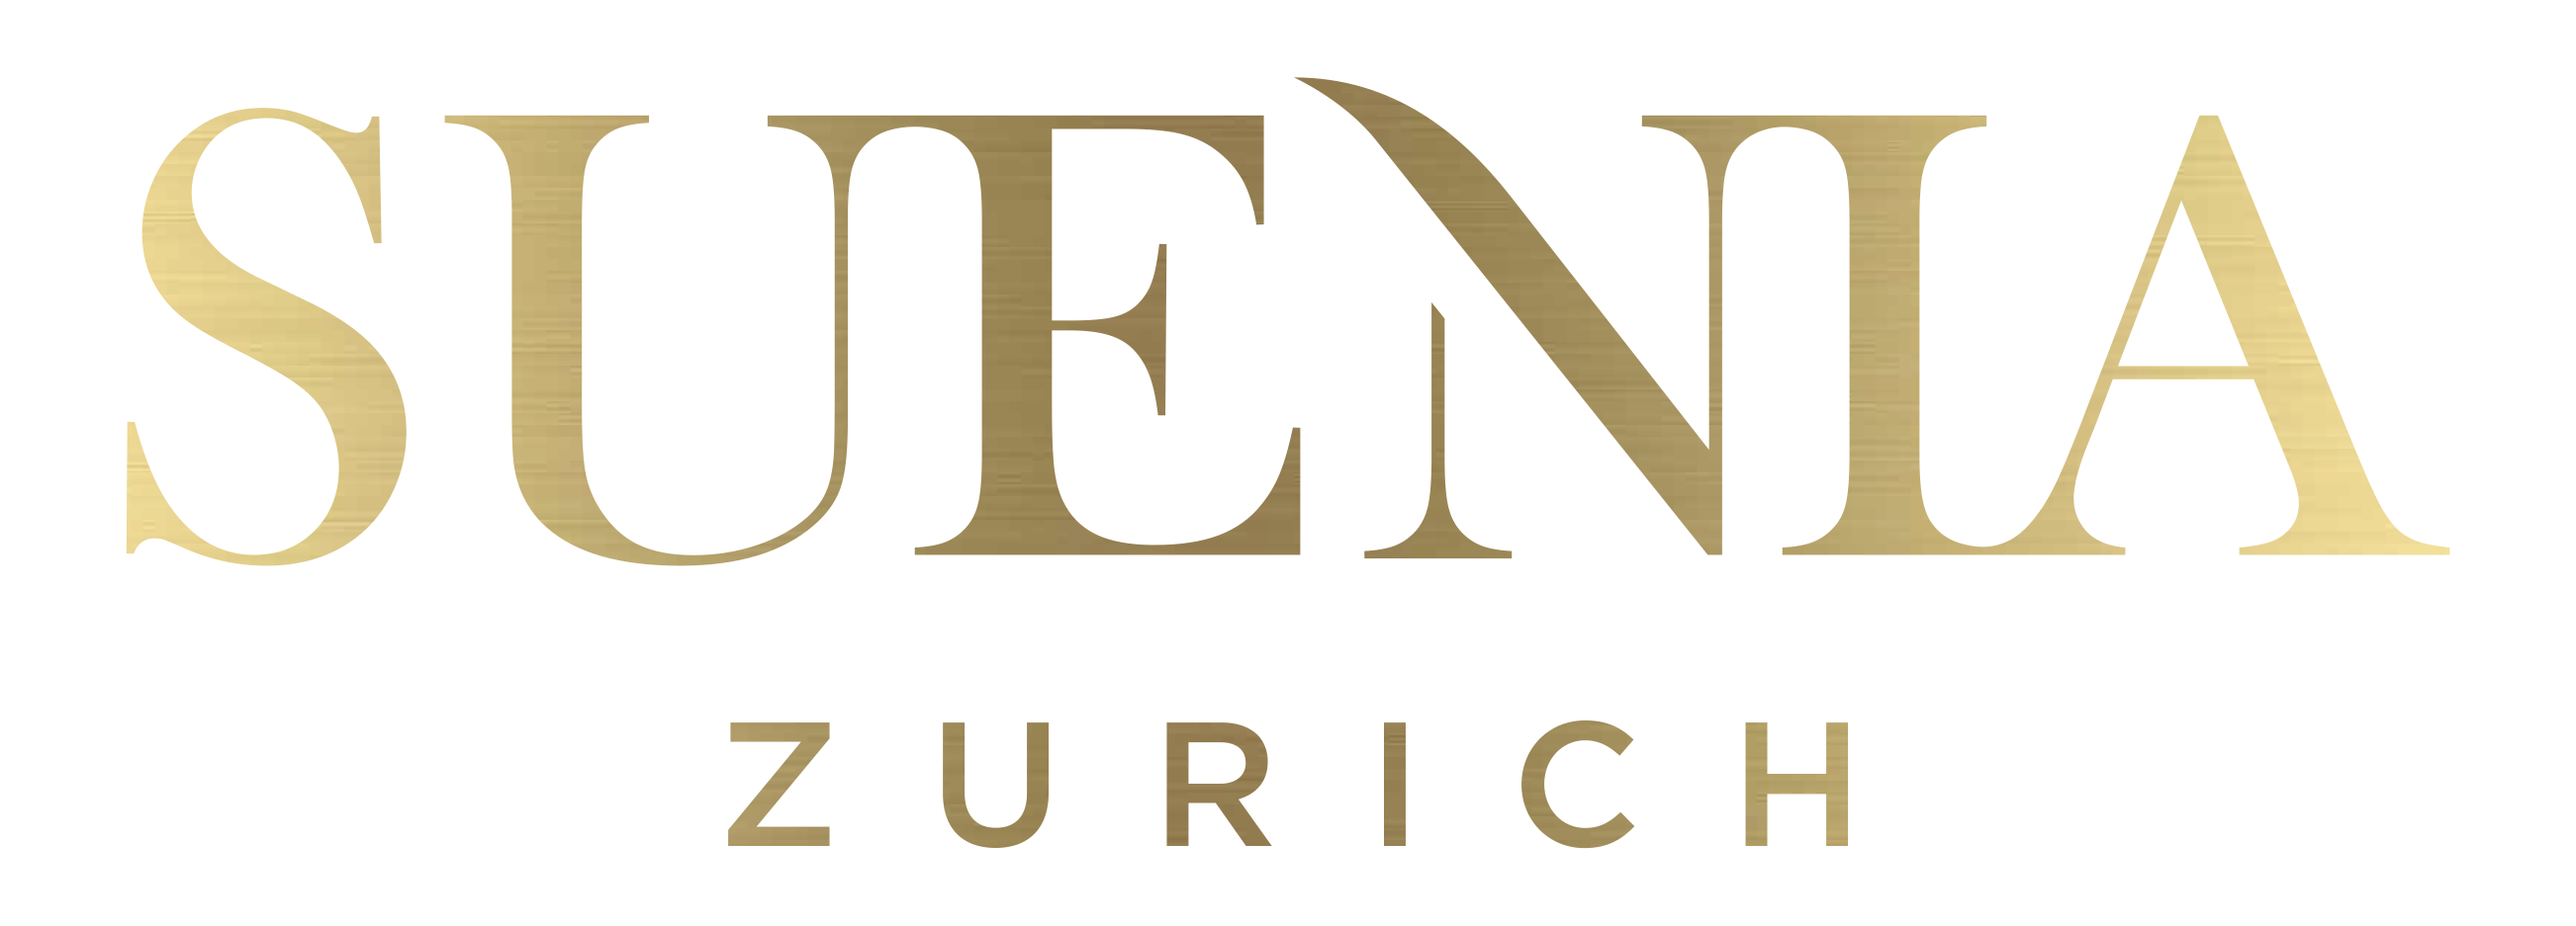
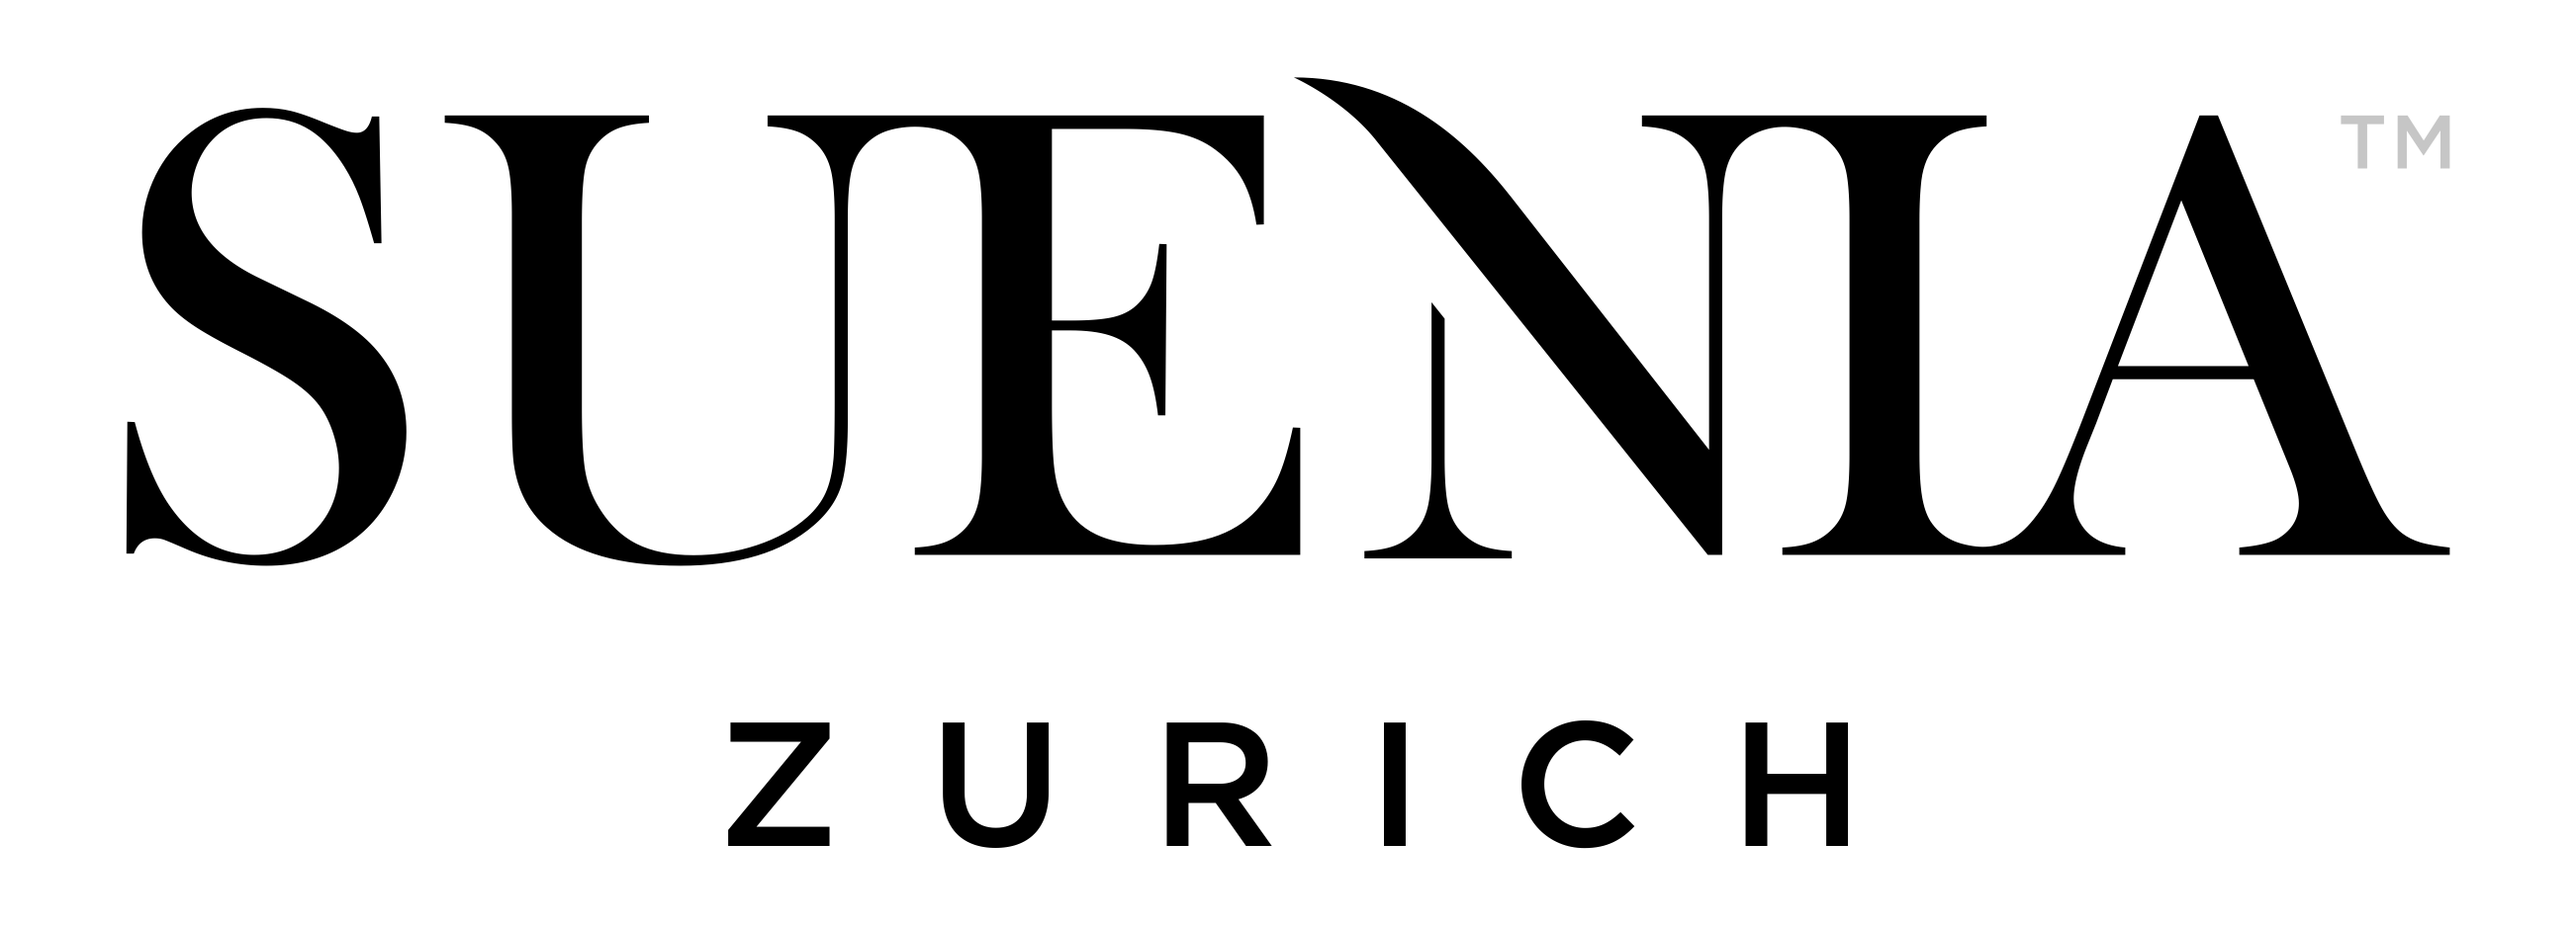
Changed layout and colors.

diff --git a/index.html b/index.html
@@ -11,12 +11,12 @@
       font-weight: 400;
       line-height: 20px;
       text-align: center;
-      color: #d4be83
+    
       }
     </style>
   </head>
   <body>
-    <img src="suenia-gold-white-solid.png" alt="Suenia Zurich" style="width: 100%; height: 100%" >
-    <p>Coming soon...</p>
+	  <img src="suenia-gold-white-solid.png" alt="Suenia Zurich" style="width: 100%; height: 100%" >
+	  <p>Coming soon...</p>
   </body>
 </html>
